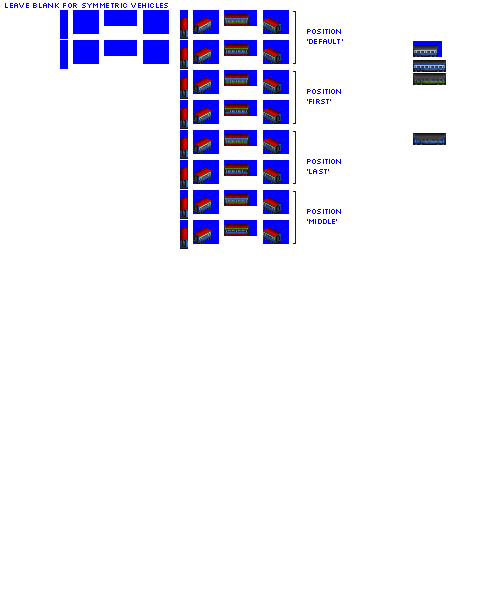
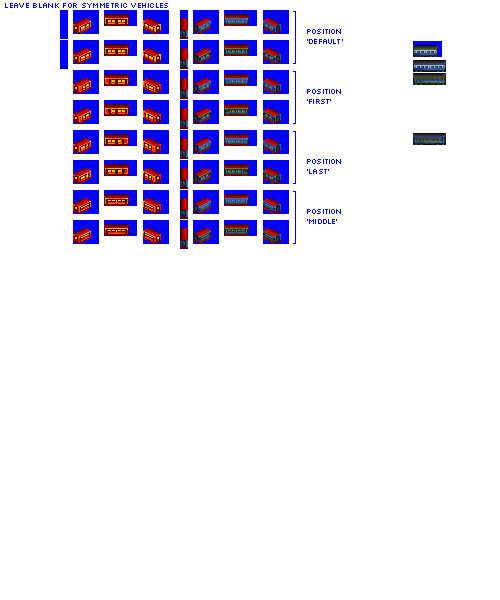
Change: sprites complete for gen 5A pax car

diff --git a/src/vehicles/passenger_cars.py b/src/vehicles/passenger_cars.py
@@ -62,7 +62,8 @@ def main():
     consist = PassengerCarConsist(roster='pony',
                                   base_numeric_id=3100,
                                   gen=5,
-                                  subtype='A')
+                                  subtype='A',
+                                  sprites_complete=True)
 
     consist.add_unit(type=PaxMailCar,
                      capacity=50,
